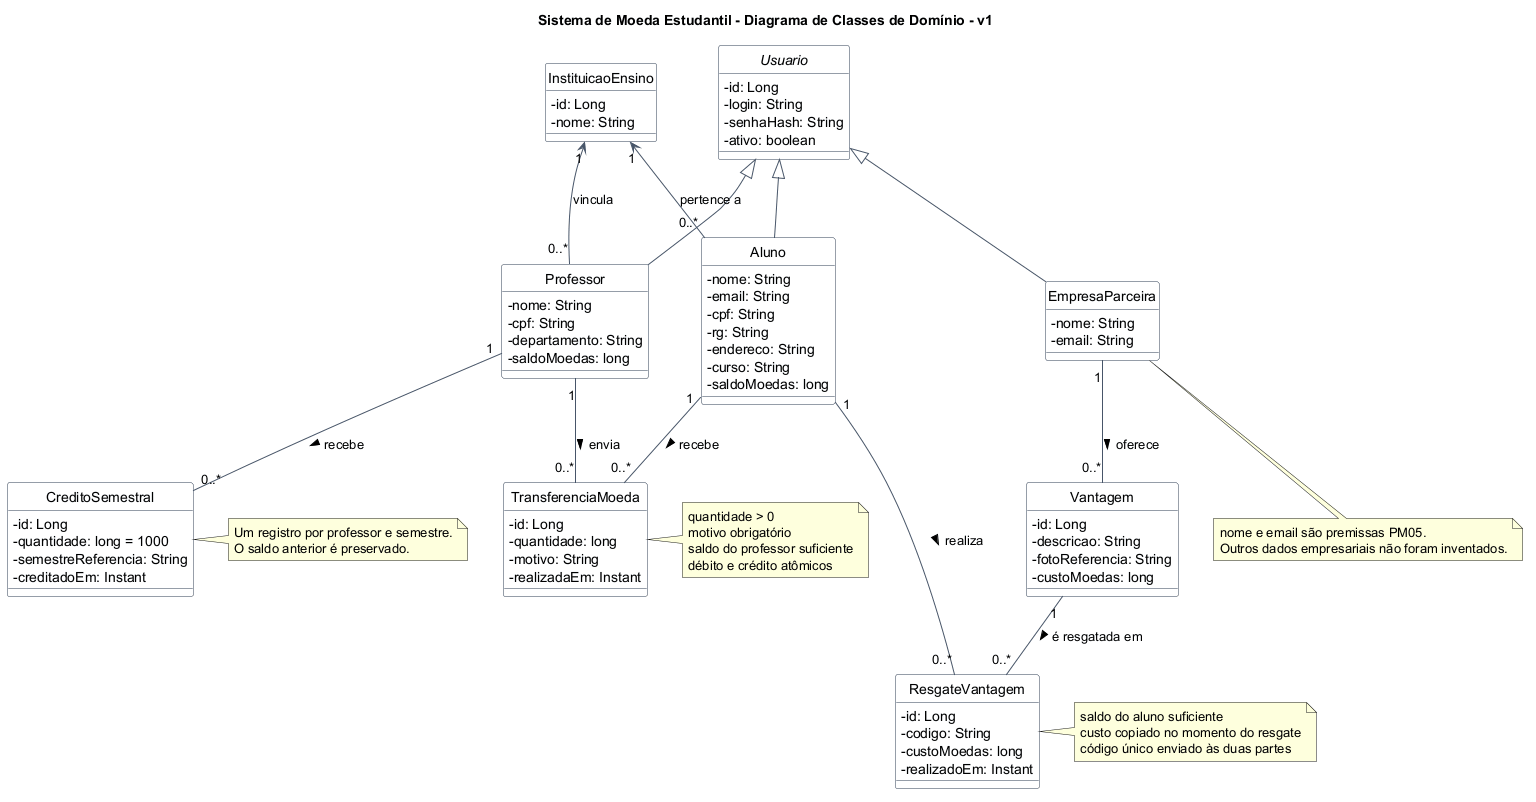
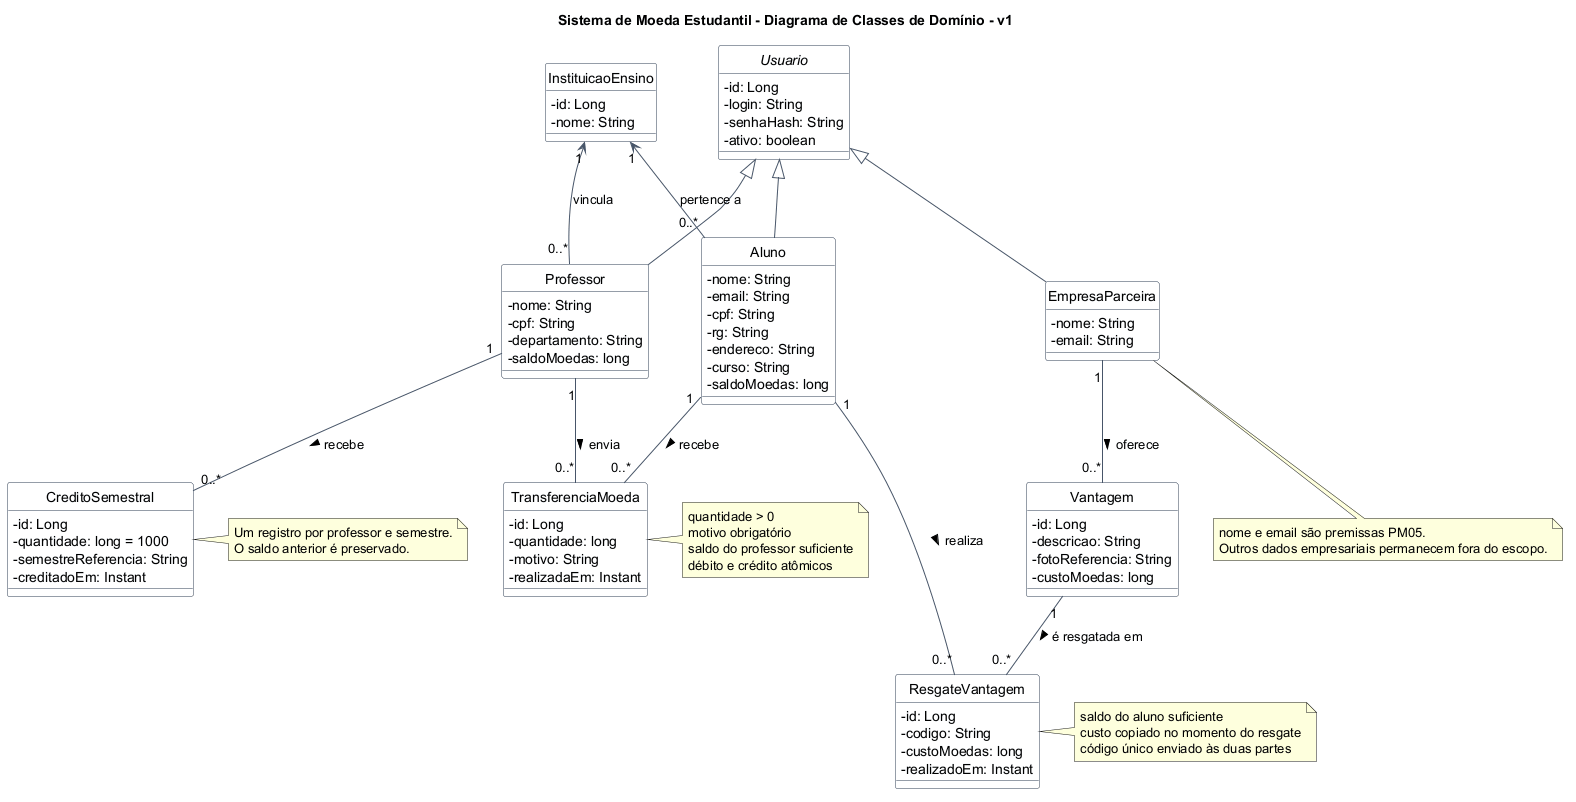
docs(sprint-01): atualizar documentação e diagramas

diff --git a/docs/rastreabilidade.md b/docs/rastreabilidade.md
@@ -1,6 +1,6 @@
 # Matriz de rastreabilidade - versão 1
 
-Esta matriz verifica a correspondência entre os requisitos, as histórias de usuário e os três modelos UML da Lab03S01.
+Esta matriz relaciona os requisitos, as histórias de usuário e os três modelos UML da Lab03S01.
 
 ## Requisitos funcionais
 
@@ -36,11 +36,3 @@ Esta matriz verifica a correspondência entre os requisitos, as histórias de us
 | RN08 e RN09 | CA10.1 e CA10.2 | UC17; `ResgateVantagem`; Serviços de aplicação |
 | RN10 | CA10.3 a CA10.5 | UC18 a UC20; `ResgateVantagem`; Adaptador de e-mail |
 | RN11 | Pré-condições do domínio | Legenda do diagrama de casos de uso; `InstituicaoEnsino` e `Professor` |
-
-## Verificação de consistência
-
-- Todos os RF possuem ao menos uma evidência em história ou pré-condição, caso de uso, classe e componente.
-- Os CRUDs exigidos para aluno e empresa parceira estão modelados como criação, consulta, atualização e desativação, sem implementar a Sprint 02.
-- O diagrama de classes contém somente dados exigidos ou premissas registradas.
-- Transferência e resgate possuem um único registro de domínio para alimentar saldos, extratos e notificações de forma coerente.
-- O diagrama de componentes posiciona a View, o Controller e o Model de forma explícita e mantém persistência, e-mail e agendamento como adaptadores de infraestrutura.

diff --git a/docs/sprint-01/README.md b/docs/sprint-01/README.md
@@ -19,15 +19,4 @@ Produzir a modelagem inicial do Sistema de Moeda Estudantil, coerente com o enun
 - Decisões não explícitas no PDF ficam registradas em `../premissas-de-modelagem.md`.
 - `../rastreabilidade.md` liga requisitos, histórias e elementos UML.
 - Os modelos cobrem o sistema descrito, mas nenhum item da Sprint 02 foi implementado.
-- A versão `v1` é preservada; alterações relevantes após revisão deverão originar uma nova versão ou ficar registradas no histórico Git.
-
-## Estado da validação
-
-- [x] Enunciado textual e visual revisado integralmente.
-- [x] Atores e fronteiras do sistema identificados.
-- [x] Histórias confrontadas com os requisitos funcionais e regras de negócio.
-- [x] Classes de domínio confrontadas com os dados e movimentações exigidos.
-- [x] Componentes organizados em arquitetura MVC compatível com Java.
-- [x] Sintaxe PlantUML validada; SVGs e PNGs renderizados e inspecionados visualmente.
-- [ ] Revisão e aprovação da responsável pelo projeto.
-- [x] Aprovação explícita para commit e push recebida.
+- A versão `v1` é preservada; alterações relevantes deverão originar uma nova versão ou ficar registradas no histórico Git.

diff --git a/docs/premissas-de-modelagem.md b/docs/premissas-de-modelagem.md
@@ -18,7 +18,7 @@ O enunciado não define todos os detalhes necessários para uma modelagem consis
 | PM12 | O extrato do professor exibe envios e o saldo; o do aluno exibe recebimentos, resgates e o saldo. A carga semestral fica registrada para auditoria, mas sua exibição não é exigida. | Reproduz exatamente as transações mencionadas no enunciado e ainda permite comprovar a composição do saldo do professor. |
 | PM13 | A tecnologia específica do banco de dados e a estratégia definitiva de persistência serão decididas na Sprint 02. | São entregáveis explícitos da Lab03S02 e não devem ser antecipados. |
 
-## Pontos que permanecem abertos para validação antes da Sprint 02
+## Pontos em aberto para a Sprint 02
 
 - Campos empresariais adicionais, como CNPJ, endereço e razão social, não foram exigidos e não foram incluídos.
 - O enunciado não define expiração, uso único ou cancelamento do cupom de resgate.

diff --git a/README.md b/README.md
@@ -6,7 +6,7 @@ O sistema reconhece o mérito estudantil por meio de uma moeda virtual. Professo
 
 ## Situação atual
 
-Sprint 01 - Lab03S01 em revisão. Esta versão contém somente os artefatos de modelagem solicitados para a sprint; não há implementação funcional nem artefatos antecipados das sprints seguintes.
+Sprint 01 - Lab03S01 concluída. Esta versão contém somente os artefatos de modelagem solicitados para a sprint; não há implementação funcional nem artefatos antecipados das sprints seguintes.
 
 ## Organização
 
@@ -24,7 +24,7 @@ docs/
       componentes.puml
       renderizados/
 src/
-  main/java/          # reservado para a implementação aprovada em sprint futura
+  main/java/          # reservado para implementação em sprint futura
   main/resources/     # reservado para recursos da implementação
   test/java/          # reservado para testes automatizados
 ```

diff --git a/docs/sprint-01/historias-de-usuario.md b/docs/sprint-01/historias-de-usuario.md
@@ -10,8 +10,8 @@ As histórias abaixo derivam do enunciado e mantêm os identificadores usados na
 
 Critérios de aceitação:
 
-- CA01.1 - Credenciais válidas iniciam uma sessão vinculada a exatamente um perfil.
-- CA01.2 - Credenciais inválidas não concedem acesso.
+- CA01.1 - Credenciais corretas iniciam uma sessão vinculada a exatamente um perfil.
+- CA01.2 - Credenciais incorretas não concedem acesso.
 - CA01.3 - Operações marcadas como protegidas somente podem ser realizadas em sessão autenticada.
 
 ## HU02 - Gerenciar cadastro de aluno
